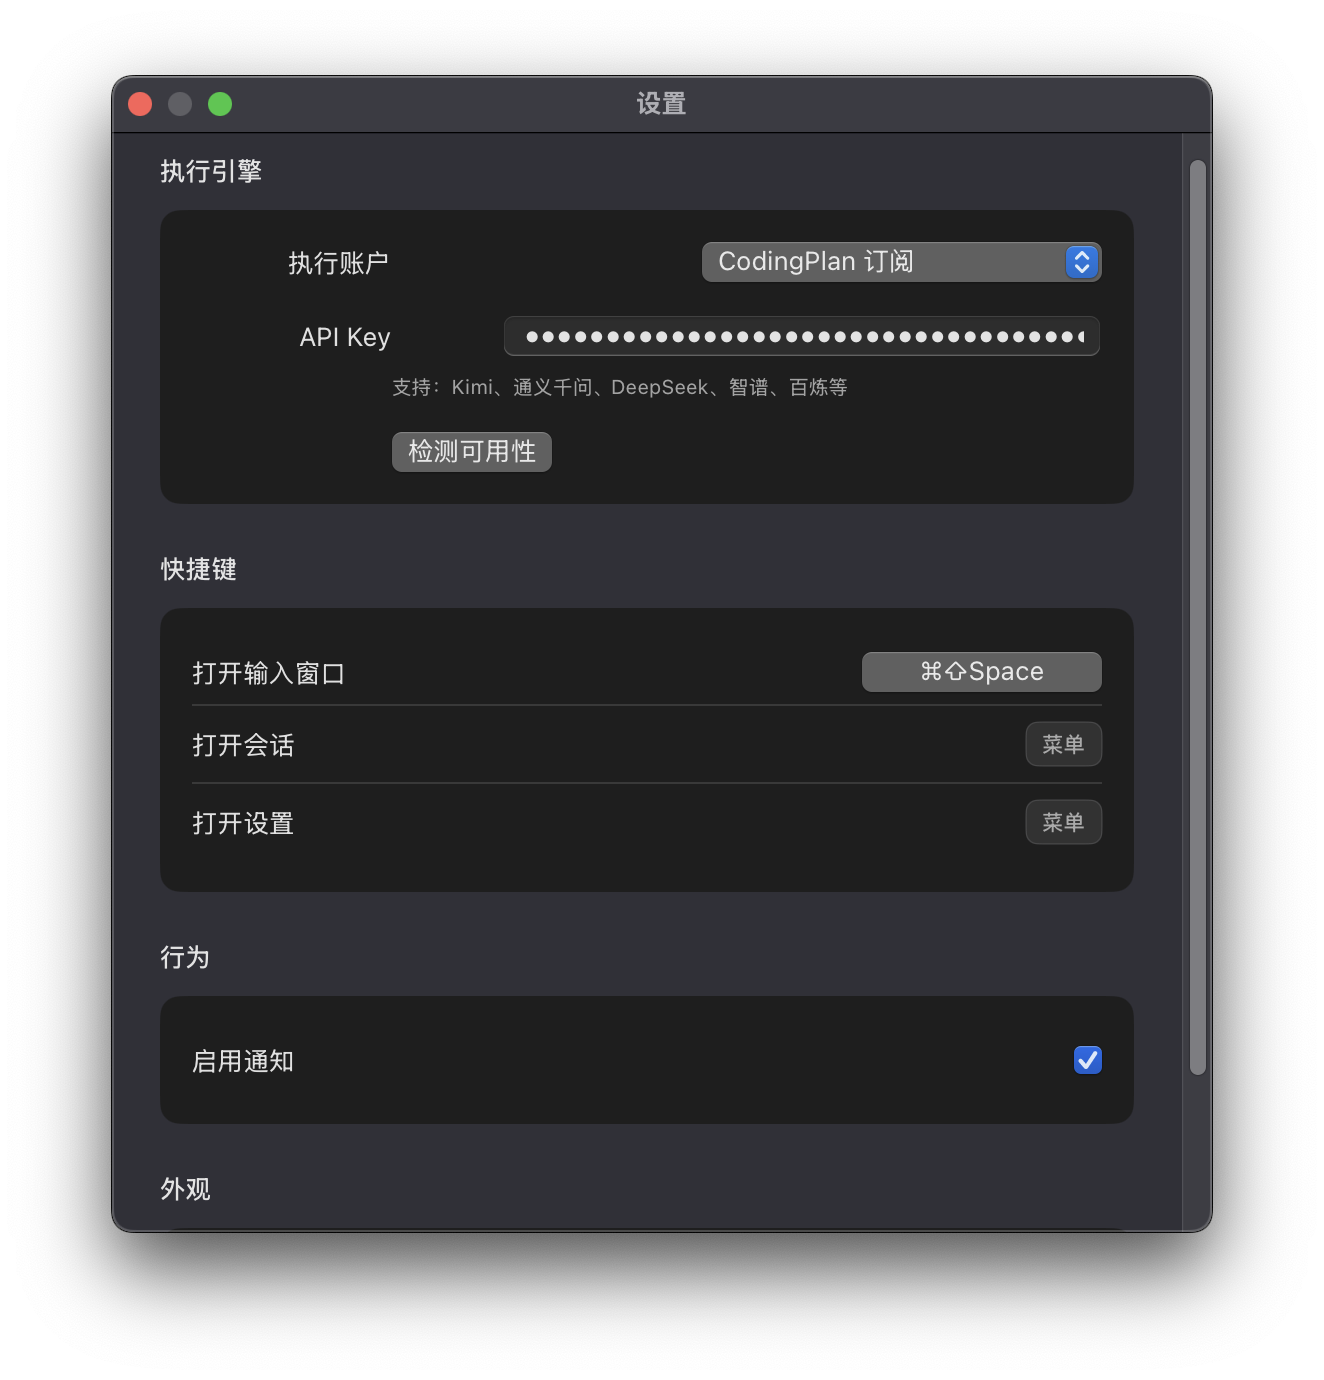
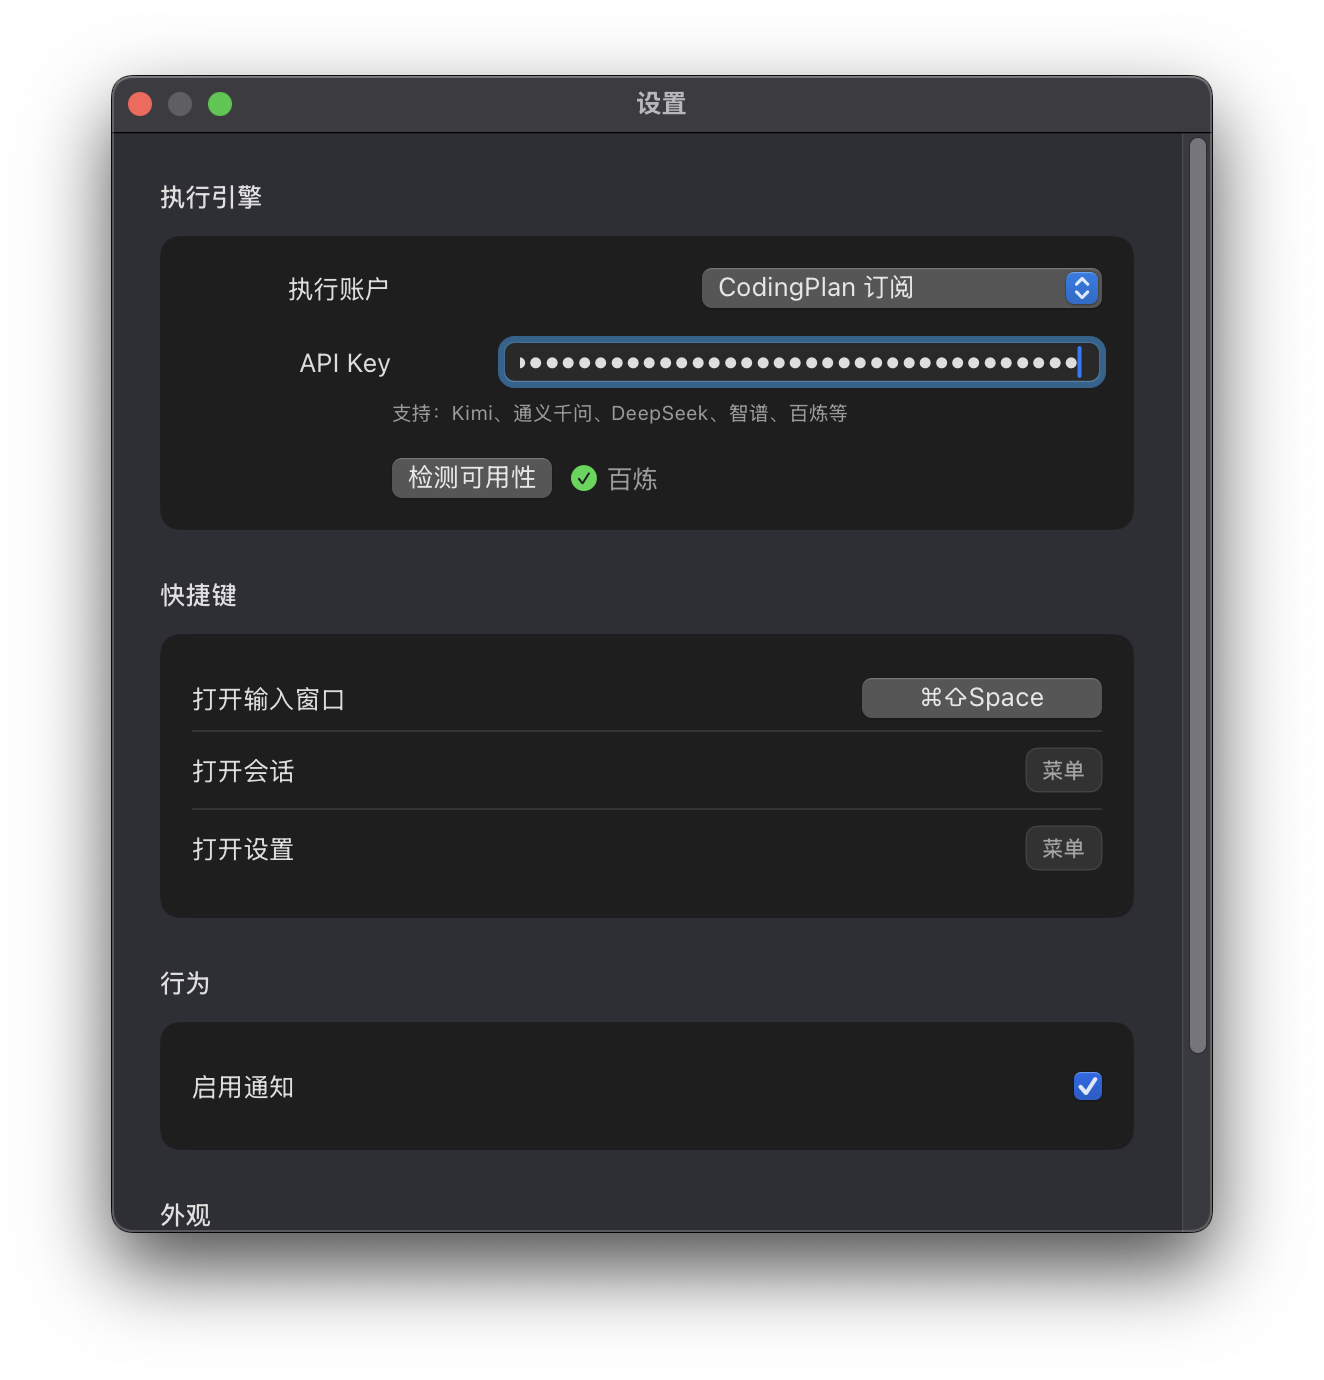
update key

diff --git a/README.md b/README.md
@@ -10,7 +10,8 @@ A macOS menu bar application that executes AI-powered tasks via Claude Code, tri
 - **Background Execution**: Run Claude Code tasks asynchronously without blocking the UI
 - **System Notifications**: Receive results via native macOS notifications
 - **Task History**: View previous tasks and their outputs
-- **Dual Execution Modes**: Support for both Claude subscriptions and Anthropic CodingPlan API
+- **Dual Execution Modes**: Run via local Claude CLI (subscription) or CodingPlan API — supports 百炼, Kimi, 通义千问, DeepSeek, 智谱, MiniMax
+- **Auto Provider Detection**: Enter any CodingPlan API key and the app probes all compatible providers in parallel to detect availability automatically
 - **Sandboxed Execution**: Secure file and command execution restricted to project directories
 
 ## Screenshots
@@ -52,7 +53,7 @@ The application runs as a menu bar icon. After building, drag the compiled app t
 2. Access Settings via the menu bar icon
 3. Choose execution account:
    - **Claude Subscription**: Uses local Claude CLI
-   - **CodingPlan API**: Requires Anthropic API key
+   - **CodingPlan API**: Enter your API key; the app auto-detects compatible providers (百炼, Kimi, 通义千问, DeepSeek, 智谱, MiniMax)
 4. Grant accessibility permissions when prompted (required for global hotkey)
 
 ## Architecture